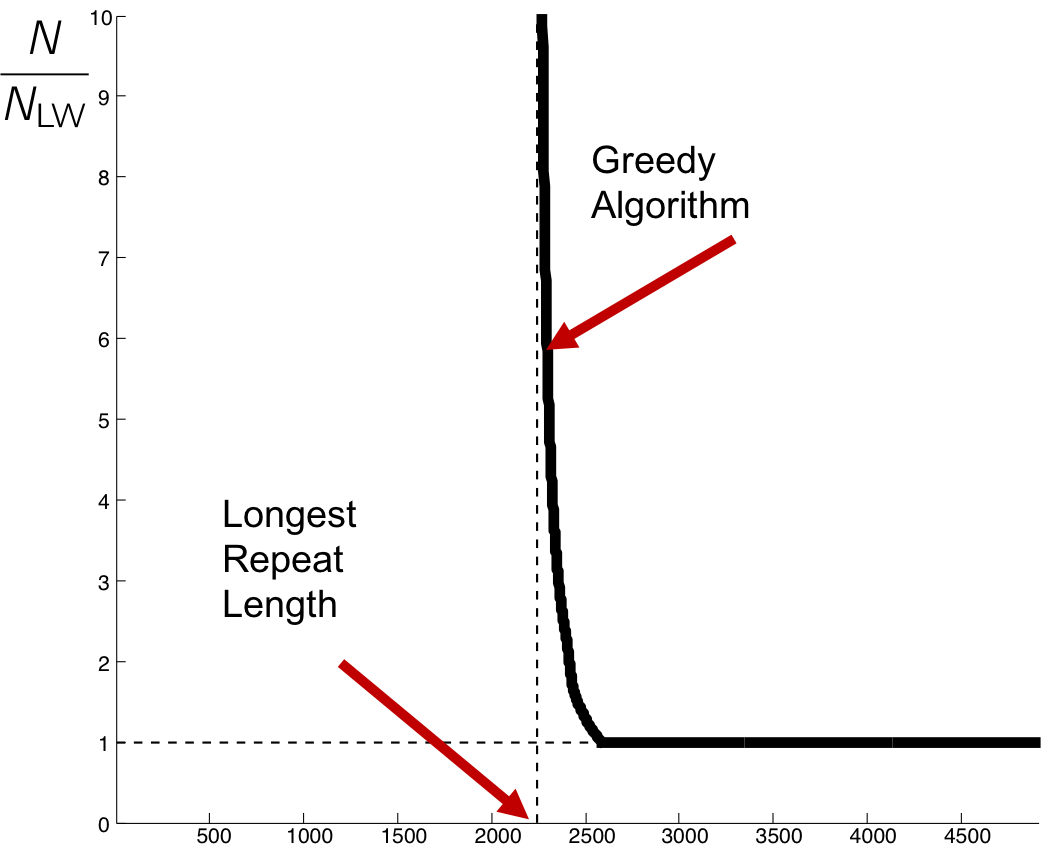
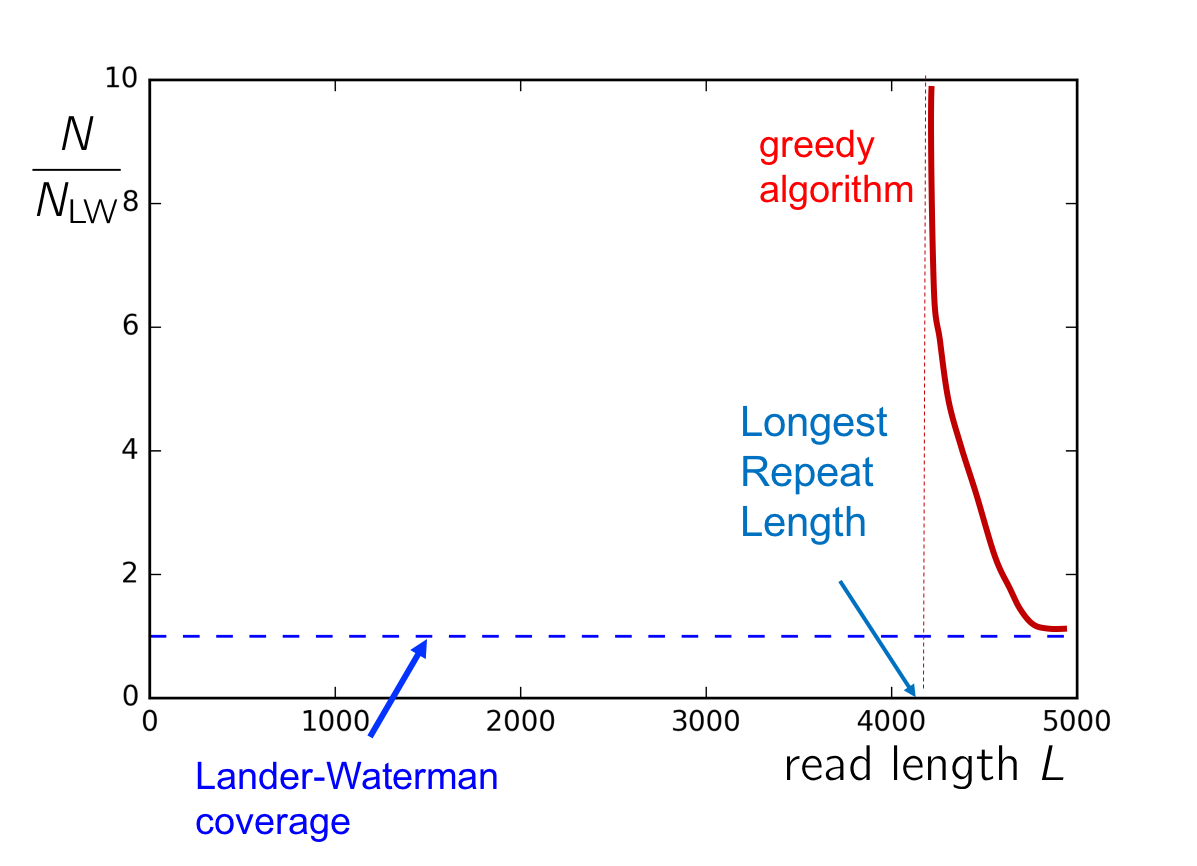
lecture 7 Davids comments handled

diff --git a/lectures/lecture7.md b/lectures/lecture7.md
@@ -154,7 +154,8 @@ of $$r_2$$.
 An interleaved repeat is said to be bridged if at least one copy of one of the repeats
 is bridged.
 
-**Theorem** [[Ukkonen 1992](http://www.sciencedirect.com/science/article/pii/0304397592901434)]:
+**Theorem** [[Ukkonen 1992](http://www.sciencedirect.com/science/article/pii/0304397592901434);
+[Bresler, Bresler, and Tse 2013](http://arxiv.org/abs/1301.0068)]:
 Assembly of a genome is impossible if any interleaved repeat is not bridged.
 
 **Proof by picture**
@@ -186,6 +187,12 @@ case of an interleaved repeat. This is illustrated below
 </div>
 
 ### Dense Read Model and the L-spectrum<a id='dense'></a>
+
+To attempt to come up with an algorithm that performs a better than the greedy
+algorithm, we take a detour. We consider the consider an idealised setting
+called the dense read model. Trying to solve the assembly problem in this
+setting gives us an algorithm, which modify to then work in the shotgun
+sequencing case. 
 
 A **dense read model** assumes that we have a read starting at every position in
 the genome. The multi-set of reads thus obtained are called the **L-spectrum**.
@@ -236,8 +243,6 @@ genome has a unique Eulerian path which is the original genome.
 This gives us that Ukkonen's lower bound for assembling successfully can be achieved as the number of reads
 become arbitrarily large.
 
-
-
-
-
 -----------------
+
+- The dense read model illustration was taken from this [paper](http://arxiv.org/abs/1501.06194).

diff --git a/lectures/lecture5.md b/lectures/lecture5.md
@@ -166,3 +166,5 @@ no mistakes in our merging, this is our underlying sequence, proving the result.
 
 
 -----------------
+
+- The two illustrations of the greedy algorithm are due to Mojtaba Tefagh.
